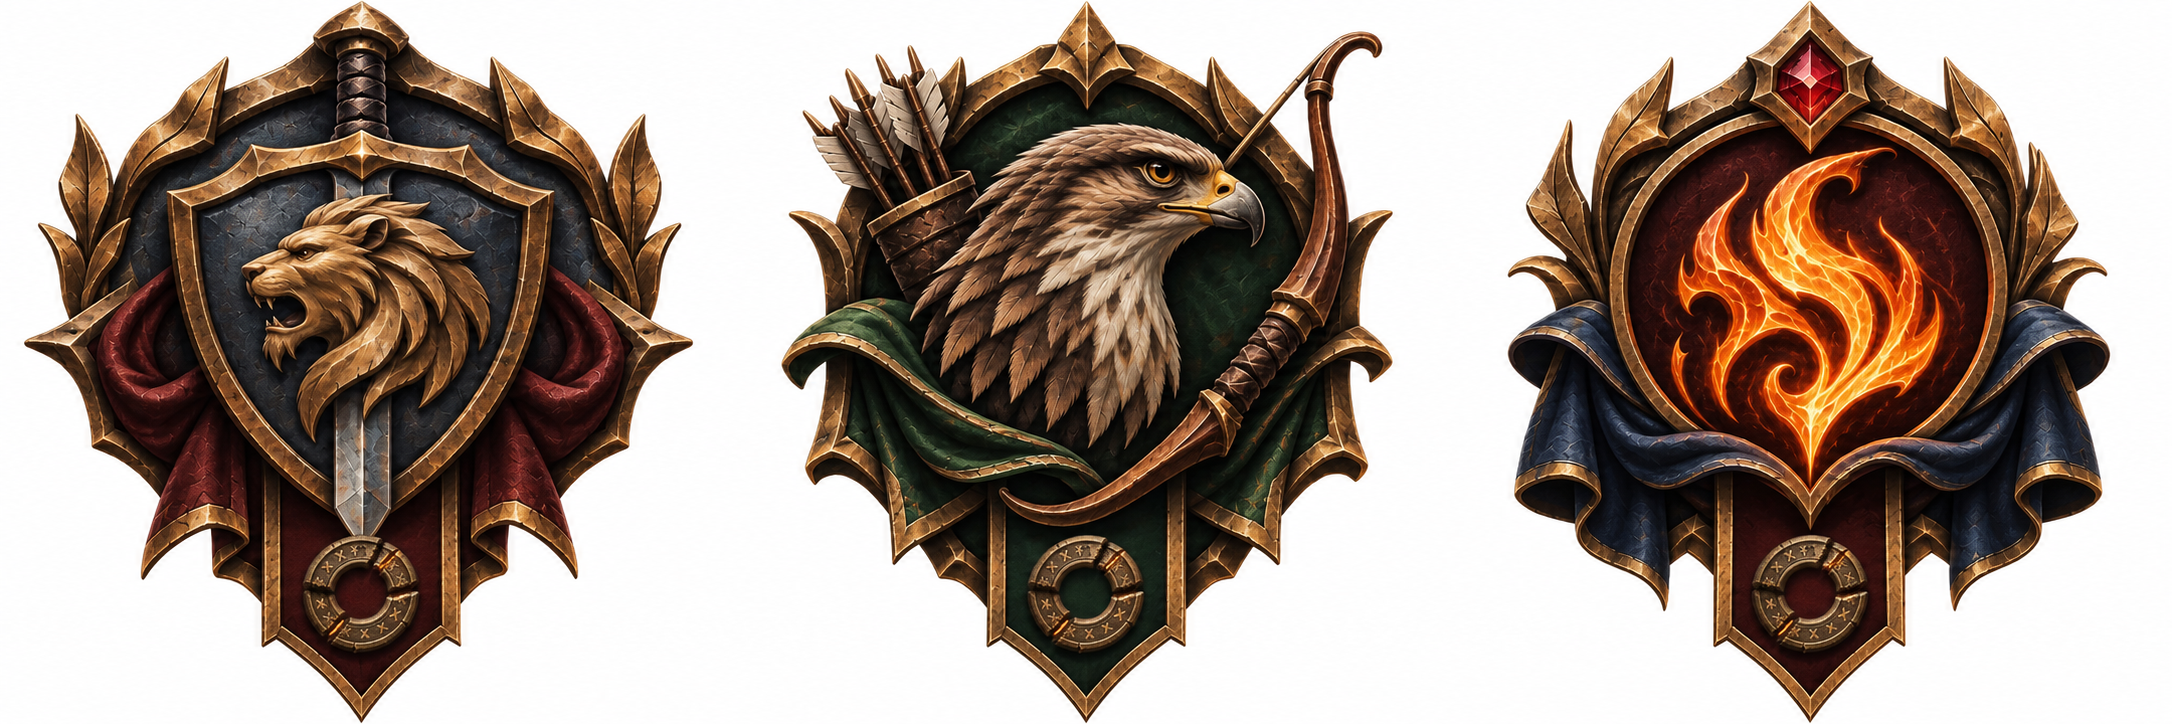
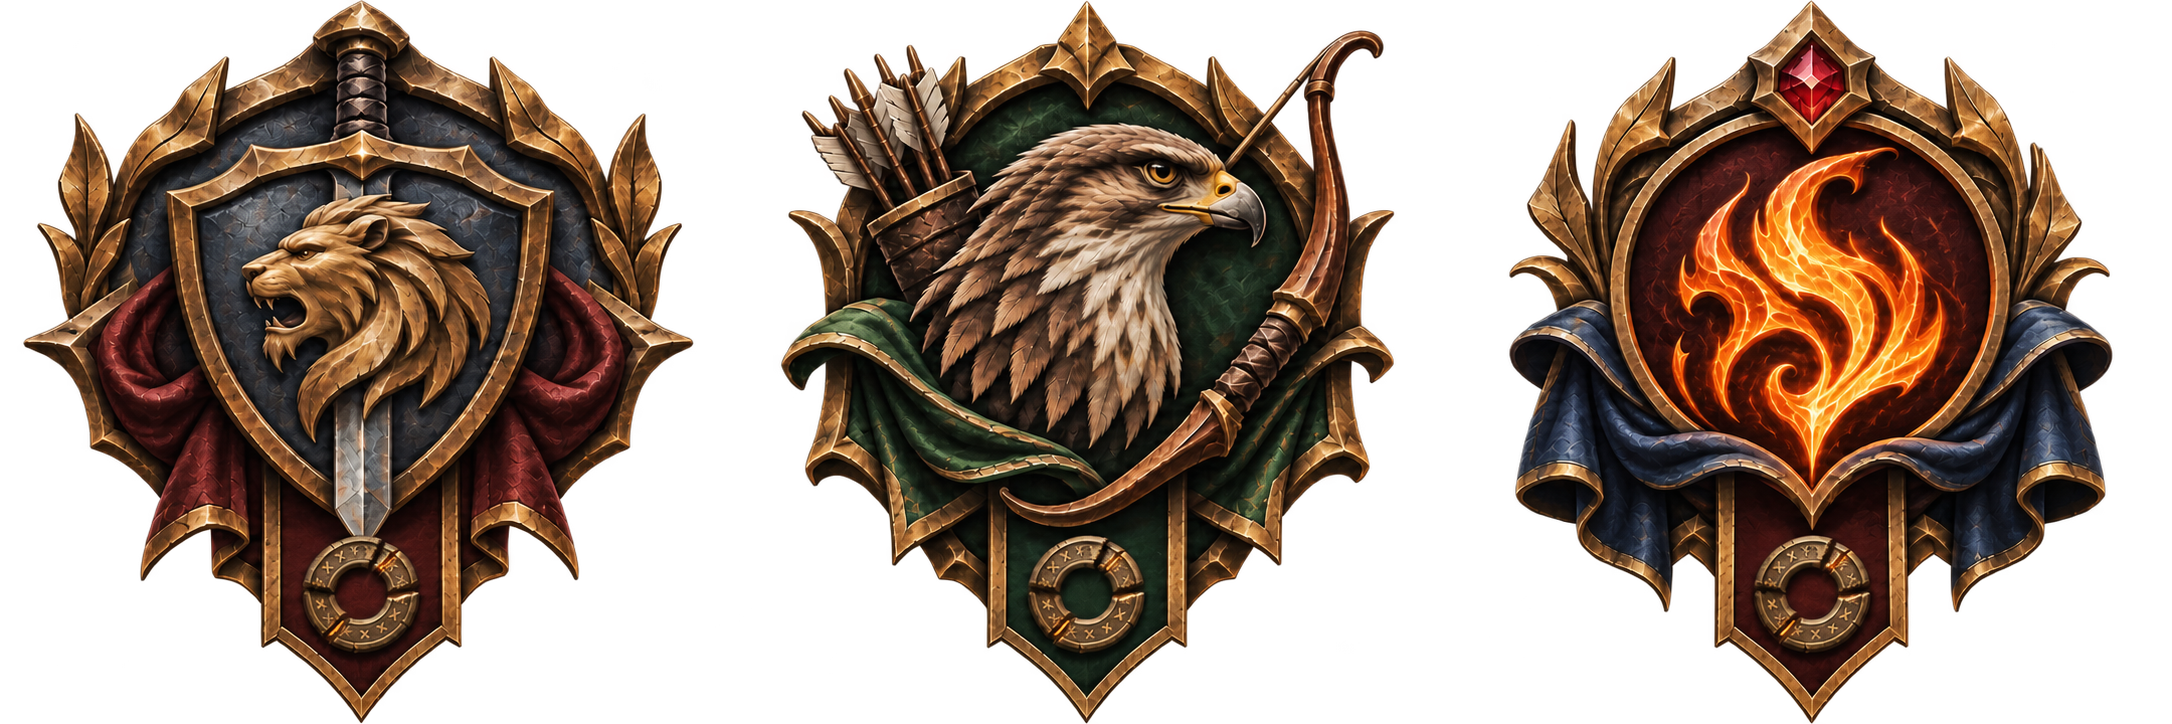
The paths' crests from the owner's transparent version (clean edges)
Claude-Session: https://claude.ai/code/session_01Lw2Vav9Qw5pJuXqDDXJFCM

diff --git a/sprites/versions.js b/sprites/versions.js
@@ -431,11 +431,11 @@ const SPRITE_HASHES = {
   "ui/actions/shield_bash.png":"10d1e26d06",
   "ui/actions/thorn_burst.png":"ad196a286d",
   "ui/actions/whirlwind.png":"0514c653ca",
-  "ui/classes/bastion-emblem.png":"9a17c05caf",
+  "ui/classes/bastion-emblem.png":"16034f9c26",
   "ui/classes/bastion.webp":"e1ef9bce0b",
-  "ui/classes/ember-emblem.png":"13518a4fcd",
+  "ui/classes/ember-emblem.png":"65d8c870c2",
   "ui/classes/ember.webp":"8b22f2a825",
-  "ui/classes/hawk-emblem.png":"d34ec923ec",
+  "ui/classes/hawk-emblem.png":"47601e8362",
   "ui/classes/hawk.webp":"f26b1a750f",
   "ui/icon/icon-180.png":"46ce5971a9",
   "ui/icon/icon-192.png":"9d6c19bd6b",
@@ -458,12 +458,12 @@ const SPRITE_HASHES = {
   "ui/parchment/paper-torn.webp":"08569066a0",
   "ui/parchment/story-panel.webp":"74737d9d9b",
   "ui/sortia/banner.webp":"8973b97712",
-  "ui/sortia/bastion-crest.webp":"ceeaa2a4a6",
+  "ui/sortia/bastion-crest.webp":"ad835296fa",
   "ui/sortia/bastion-portrait.webp":"34354fb093",
   "ui/sortia/button-ceremonial.webp":"ec8a25e29c",
-  "ui/sortia/ember-crest.webp":"16cfb82355",
+  "ui/sortia/ember-crest.webp":"cc6c60240f",
   "ui/sortia/ember-portrait.webp":"abaaf3b81d",
-  "ui/sortia/hawk-crest.webp":"92374a9159",
+  "ui/sortia/hawk-crest.webp":"c8699c648a",
   "ui/sortia/hawk-portrait.webp":"bf81a2be1e",
   "ui/sortia/parchment.webp":"de4851be05",
   "ui/sortia/vocation-hall-tall.webp":"ee2ab6c92b",
